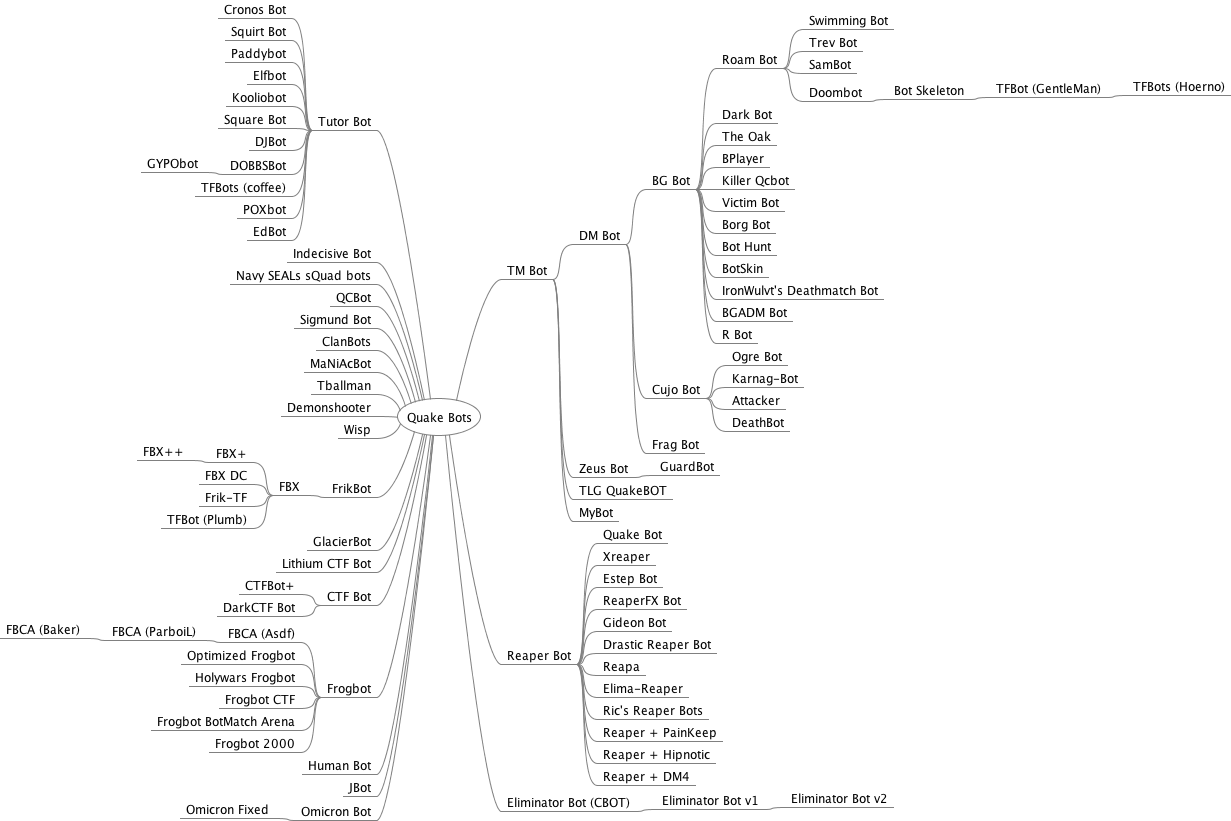
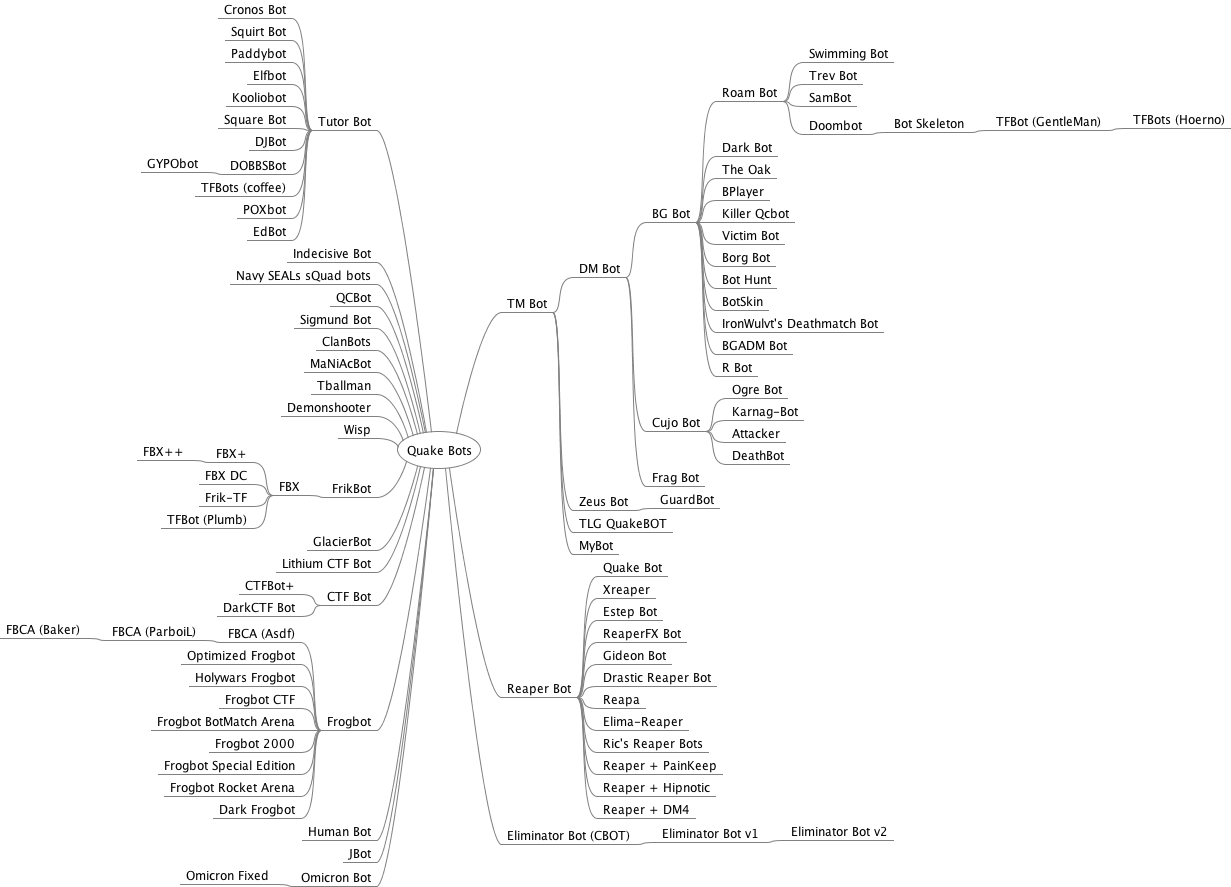
added some fmods

diff --git a/mindmap/QuakeBots.mm b/mindmap/QuakeBots.mm
@@ -112,6 +112,9 @@
 <node CREATED="1623192862868" ID="ID_1388671764" MODIFIED="1623192863956" TEXT="Frogbot CTF"/>
 <node CREATED="1623195071773" ID="ID_1843658020" MODIFIED="1623195073198" TEXT="Frogbot BotMatch Arena"/>
 <node CREATED="1623196037734" ID="ID_157402095" MODIFIED="1623196038351" TEXT="Frogbot 2000"/>
+<node CREATED="1623199711914" ID="ID_758519878" MODIFIED="1623199712922" TEXT="Frogbot Special Edition"/>
+<node CREATED="1623199926760" ID="ID_85514003" MODIFIED="1623199936981" TEXT="Frogbot Rocket Arena"/>
+<node CREATED="1623200035065" ID="ID_247676526" MODIFIED="1623200035735" TEXT="Dark Frogbot"/>
 </node>
 <node CREATED="1623028654081" ID="ID_1831431959" MODIFIED="1623028655051" POSITION="left" TEXT="Human Bot"/>
 <node CREATED="1623028405586" ID="ID_364088443" MODIFIED="1623028407494" POSITION="left" TEXT="JBot"/>

diff --git a/README.md b/README.md
@@ -28,6 +28,7 @@ Cronos Bot | "Cronos" | [cronobot.zip](bin/cronobot.zip)
 CTF Bot | Drew Davidson aka "BZ" | [ctfbot12.zip](bin/ctfbot12.zip) (*)
 CTFBot+ | Anthony Distler aka "*this" | [ctfbotp032399.zip](bin/ctfbotp032399.zip) (*)
 Cujo | Jonathan E. Wright | [cujo14.zip](bin/cujo14.zip)
+Dark Frogbot | "Pinsolle" | darkfrog.zip
 Darkbot | Terry Hendrix aka "Dark_Skye" | [drkbt11b.zip](bin/drkbt11b.zip)
 DarkCTF Bot | Terry Hendrix II aka "Mongoose" | [darkctf13.zip](bin/darkctf13.zip) (*)($)
 DeathBot | James Boswell aka "FlashFire" | [death-64.zip](bin/death-64.zip)
@@ -57,6 +58,8 @@ Frogbot Clan Arena (FBCA) | "Baker" | [frogbots-099.zip](bin/frogbots-099.zip)
 Frogbot Clan Arena (FBCA) | Alexey Pakhomov aka "ParboiL" | [fbca102kt.zip](bin/fbca102kt.zip) (*)
 Frogbot Clan Arena (FBCA) | Matt McChesney aka "Asdf" | fbca085.zip
 Frogbot CTF (FBCTF) | Gerard Ryan aka "numb" | [fbctf035.zip](bin/fbctf035.zip) (-)
+Frogbot Rocket Arena | Brian Mathiasen aka "Erazor" | fbarena013.zip
+Frogbot Special Edition | Brian Mathiasen aka "Erazor" | fb013se.zip
 Frogbot | Robert Field aka "Frog" | [frogbot013.zip](bin/frogbot013.zip)
 Gideon Bot | Matthew Turvey | [gidbot.zip](bin/gidbot.zip)
 GlacierBot | "IceDagger" | gb027b.zip
@@ -110,6 +113,7 @@ Victim Bot | Tony Tang aka "The TangMaster" | [vbot11.zip](bin/vbot11.zip)
 Wisp | Iikka Paavolainen | [wisp.zip](bin/wisp.zip) ($)
 Xreaper | "Mephisto" | xreaperb130.zip
 Zeus Bot | Jonathan E. Wright aka "Nelno the Amoeba" | [zeus205.zip](bin/zeus205.zip)
+
 
 File Column:
 - **?** Indicates I could not discover the name of the bot mod filename.
